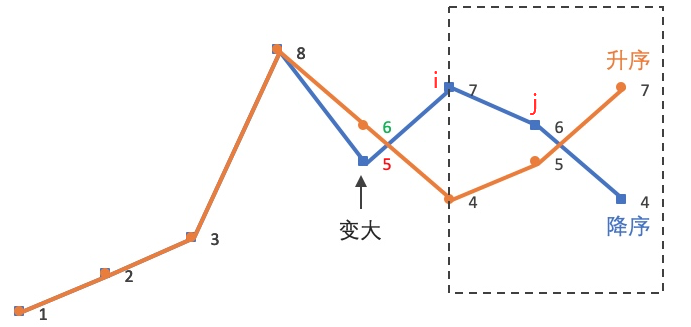
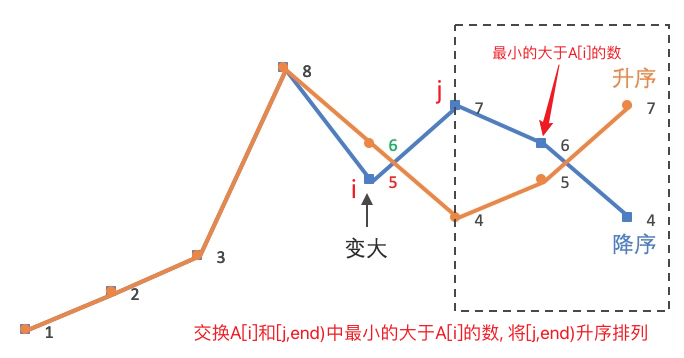
0308

diff --git a/markdown/专题 - 区间.md b/markdown/专题 - 区间.md
@@ -3,7 +3,7 @@
 |[区间合并](/acwing/Section%201/acwing%20-%20%E5%8C%BA%E9%97%B4%E5%90%88%E5%B9%B6.md)|[区间覆盖](/markdown/%E4%B8%93%E9%A2%98%20-%20%E5%8C%BA%E9%97%B4%20-%20%E5%8C%BA%E9%97%B4%E8%A6%86%E7%9B%96.md)|区间交集|[区间选点/不相交选择](/markdown/%E4%B8%93%E9%A2%98%20-%20%E5%8C%BA%E9%97%B4%20-%20%E5%8C%BA%E9%97%B4%E4%B8%8D%E7%9B%B8%E4%BA%A4%E9%80%89%E6%8B%A9.md)|[区间分组](/markdown/%E4%B8%93%E9%A2%98%20-%20%E5%8C%BA%E9%97%B4%20-%20%E5%8C%BA%E9%97%B4%E5%88%86%E7%BB%84.md)| |
 |  :-:  |  :-:  |  :-:  |  :-:  |  :-:  |  :-:  |
 |[56. 合并区间](/markdown/%E4%B8%93%E9%A2%98%20-%20%E5%8C%BA%E9%97%B4.md#lc56-%E5%90%88%E5%B9%B6%E5%8C%BA%E9%97%B4)|[55. 跳跃游戏](/markdown/%E4%B8%93%E9%A2%98%20-%20%E5%8C%BA%E9%97%B4%20-%20%E5%8C%BA%E9%97%B4%E8%A6%86%E7%9B%96.md#lc55-%E8%B7%B3%E8%B7%83%E6%B8%B8%E6%88%8F)|[986. 区间列表的交集](/markdown/%E4%B8%93%E9%A2%98%20-%20%E5%8C%BA%E9%97%B4.md#lc986-%E5%8C%BA%E9%97%B4%E5%88%97%E8%A1%A8%E7%9A%84%E4%BA%A4%E9%9B%86)|[435. 无重叠区间](/markdown/%E4%B8%93%E9%A2%98%20-%20%E5%8C%BA%E9%97%B4%20-%20%E5%8C%BA%E9%97%B4%E4%B8%8D%E7%9B%B8%E4%BA%A4%E9%80%89%E6%8B%A9.md#lc435-%E6%97%A0%E9%87%8D%E5%8F%A0%E5%8C%BA%E9%97%B4)|[AW908. 最大不相交区间数](/acwing/Section%206/2_%E5%8C%BA%E9%97%B4%E5%88%86%E7%BB%84_%E6%9C%80%E5%A4%A7%E4%B8%8D%E7%9B%B8%E4%BA%A4%E5%8C%BA%E9%97%B4%E6%95%B0%E9%87%8F.cpp)|[729. 我的日程安排表](/workspace/729.%E6%88%91%E7%9A%84%E6%97%A5%E7%A8%8B%E5%AE%89%E6%8E%92%E8%A1%A8-i.cpp)|
-|[57. 插入区间](/markdown/%E4%B8%93%E9%A2%98%20-%20%E5%8C%BA%E9%97%B4.md#lc57-%E6%8F%92%E5%85%A5%E5%8C%BA%E9%97%B4)|[45. 跳跃游戏Ⅱ](/markdown/%E4%B8%93%E9%A2%98%20-%20%E5%8C%BA%E9%97%B4%20-%20%E5%8C%BA%E9%97%B4%E8%A6%86%E7%9B%96.md#lc45-%E8%B7%B3%E8%B7%83%E6%B8%B8%E6%88%8F%E2%85%B1)|       |[452. 用最少数量的箭引爆气球](/markdown/%E4%B8%93%E9%A2%98%20-%20%E5%8C%BA%E9%97%B4%20-%20%E5%8C%BA%E9%97%B4%E4%B8%8D%E7%9B%B8%E4%BA%A4%E9%80%89%E6%8B%A9.md#lc452-%E7%94%A8%E6%9C%80%E5%B0%91%E6%95%B0%E9%87%8F%E7%9A%84%E7%AE%AD%E5%BC%95%E7%88%86%E6%B0%94%E7%90%83)|[AW111. 畜栏预定](/acwing/Section%206/2_%E5%8C%BA%E9%97%B4%E5%88%86%E7%BB%84_%E7%95%9C%E6%A0%8F%E9%A2%84%E5%AE%9A.cpp)|
+|[57. 插入区间](/markdown/%E4%B8%93%E9%A2%98%20-%20%E5%8C%BA%E9%97%B4.md#lc57-%E6%8F%92%E5%85%A5%E5%8C%BA%E9%97%B4)|[45. 跳跃游戏II](/markdown/%E4%B8%93%E9%A2%98%20-%20%E5%8C%BA%E9%97%B4%20-%20%E5%8C%BA%E9%97%B4%E8%A6%86%E7%9B%96.md#lc45-%E8%B7%B3%E8%B7%83%E6%B8%B8%E6%88%8F%E2%85%B1)|       |[452. 用最少数量的箭引爆气球](/markdown/%E4%B8%93%E9%A2%98%20-%20%E5%8C%BA%E9%97%B4%20-%20%E5%8C%BA%E9%97%B4%E4%B8%8D%E7%9B%B8%E4%BA%A4%E9%80%89%E6%8B%A9.md#lc452-%E7%94%A8%E6%9C%80%E5%B0%91%E6%95%B0%E9%87%8F%E7%9A%84%E7%AE%AD%E5%BC%95%E7%88%86%E6%B0%94%E7%90%83)|[AW111. 畜栏预定](/acwing/Section%206/2_%E5%8C%BA%E9%97%B4%E5%88%86%E7%BB%84_%E7%95%9C%E6%A0%8F%E9%A2%84%E5%AE%9A.cpp)|
 |       |[763. 划分字母区间](/markdown/%E4%B8%93%E9%A2%98%20-%20%E5%8C%BA%E9%97%B4%20-%20%E5%8C%BA%E9%97%B4%E8%A6%86%E7%9B%96.md#lc763-%E5%88%92%E5%88%86%E5%AD%97%E6%AF%8D%E5%8C%BA%E9%97%B4)|       |         |
 |       |[1024. 视频拼接](/markdown/%E4%B8%93%E9%A2%98%20-%20%E5%8C%BA%E9%97%B4%20-%20%E5%8C%BA%E9%97%B4%E8%A6%86%E7%9B%96.md#lc1024-%E8%A7%86%E9%A2%91%E6%8B%BC%E6%8E%A5)|      |       |
 |       |[1326. 灌溉花园的最少水龙头数目](/markdown/%E4%B8%93%E9%A2%98%20-%20%E5%8C%BA%E9%97%B4%20-%20%E5%8C%BA%E9%97%B4%E8%A6%86%E7%9B%96.md#lc1326-%E7%81%8C%E6%BA%89%E8%8A%B1%E5%9B%AD%E7%9A%84%E6%9C%80%E5%B0%91%E6%B0%B4%E9%BE%99%E5%A4%B4%E6%95%B0%E7%9B%AE)|     |     |
@@ -58,6 +58,7 @@ https://leetcode.cn/problems/insert-interval/
 > 方法二: 先放高的, 直接放在k位置, 如果高度相同先放k小的; 维护一个queue或者vector, 借助`vi.insert(it, val)`方法插入到指定位置后
 > 
 > 等等, 这题怎么是区间呢...
+
 https://leetcode.cn/problems/queue-reconstruction-by-height/
 
 

diff --git a/markdown/专题 - 二分法.md b/markdown/专题 - 二分法.md
@@ -24,9 +24,9 @@
 |  :-:  |  :-:  |  :-:  |
 |[704. 二分查找](/workspace/704.%E4%BA%8C%E5%88%86%E6%9F%A5%E6%89%BE.cpp)|基础实现||
 |[33. 搜索旋转排序数组](/workspace/33.%E6%90%9C%E7%B4%A2%E6%97%8B%E8%BD%AC%E6%8E%92%E5%BA%8F%E6%95%B0%E7%BB%84.cpp)|折叠数组||
-|[81. 搜索旋转排序数组Ⅱ](/workspace/81.%E6%90%9C%E7%B4%A2%E6%97%8B%E8%BD%AC%E6%8E%92%E5%BA%8F%E6%95%B0%E7%BB%84-ii.cpp)|折叠数组|在LC33的基础上进行**去重**|
+|[81. 搜索旋转排序数组II](/workspace/81.%E6%90%9C%E7%B4%A2%E6%97%8B%E8%BD%AC%E6%8E%92%E5%BA%8F%E6%95%B0%E7%BB%84-ii.cpp)|折叠数组|在LC33的基础上进行**去重**|
 |[153. 寻找旋转排序数组中的最小值](/workspace/153.%E5%AF%BB%E6%89%BE%E6%97%8B%E8%BD%AC%E6%8E%92%E5%BA%8F%E6%95%B0%E7%BB%84%E4%B8%AD%E7%9A%84%E6%9C%80%E5%B0%8F%E5%80%BC.cpp)|折叠数组|无重复|
-|[154. 寻找旋转排序数组中的最小值Ⅱ](/workspace/154.%E5%AF%BB%E6%89%BE%E6%97%8B%E8%BD%AC%E6%8E%92%E5%BA%8F%E6%95%B0%E7%BB%84%E4%B8%AD%E7%9A%84%E6%9C%80%E5%B0%8F%E5%80%BC-ii.cpp)|折叠数组|有重复📌|
+|[154. 寻找旋转排序数组中的最小值II](/workspace/154.%E5%AF%BB%E6%89%BE%E6%97%8B%E8%BD%AC%E6%8E%92%E5%BA%8F%E6%95%B0%E7%BB%84%E4%B8%AD%E7%9A%84%E6%9C%80%E5%B0%8F%E5%80%BC-ii.cpp)|折叠数组|有重复📌|
 |[34. 在排序数组中查找元素的第一个和最后一个位置](/workspace/34.%E5%9C%A8%E6%8E%92%E5%BA%8F%E6%95%B0%E7%BB%84%E4%B8%AD%E6%9F%A5%E6%89%BE%E5%85%83%E7%B4%A0%E7%9A%84%E7%AC%AC%E4%B8%80%E4%B8%AA%E5%92%8C%E6%9C%80%E5%90%8E%E4%B8%80%E4%B8%AA%E4%BD%8D%E7%BD%AE.cpp)|第一次/最后一次出现||
 |[436. 寻找右区间](/workspace/436.%E5%AF%BB%E6%89%BE%E5%8F%B3%E5%8C%BA%E9%97%B4.cpp)|第一次出现||
 |[744. 寻找比目标字母更大的最小字母](/workspace/744.%E5%AF%BB%E6%89%BE%E6%AF%94%E7%9B%AE%E6%A0%87%E5%AD%97%E6%AF%8D%E5%A4%A7%E7%9A%84%E6%9C%80%E5%B0%8F%E5%AD%97%E6%AF%8D.cpp)|最后一次出现||
@@ -134,11 +134,11 @@ int lastOccurance(vector<int> nums, int target, int left, int right){
 > 
 > [LC33. 搜索旋转排序](/workspace/33.%E6%90%9C%E7%B4%A2%E6%97%8B%E8%BD%AC%E6%8E%92%E5%BA%8F%E6%95%B0%E7%BB%84.cpp)
 >
-> [LC81. 搜索旋转排序Ⅱ](/workspace/81.%E6%90%9C%E7%B4%A2%E6%97%8B%E8%BD%AC%E6%8E%92%E5%BA%8F%E6%95%B0%E7%BB%84-ii.cpp) : 在LC33的基础上去重, 而不是改变边界
+> [LC81. 搜索旋转排序II](/workspace/81.%E6%90%9C%E7%B4%A2%E6%97%8B%E8%BD%AC%E6%8E%92%E5%BA%8F%E6%95%B0%E7%BB%84-ii.cpp) : 在LC33的基础上去重, 而不是改变边界
 >
 > [LC153. 寻找旋转排序数组中的最小值](/workspace/153.%E5%AF%BB%E6%89%BE%E6%97%8B%E8%BD%AC%E6%8E%92%E5%BA%8F%E6%95%B0%E7%BB%84%E4%B8%AD%E7%9A%84%E6%9C%80%E5%B0%8F%E5%80%BC.cpp): 不需要去重, 要注意`nums[mid] <= nums[right]`时min有两种情况, 有可能当前的mid就是最小值位置, 如果不是才能往左收缩
 > 
-> [LC154. 寻找旋转排序数组中的最小值Ⅱ](/workspace/154.%E5%AF%BB%E6%89%BE%E6%97%8B%E8%BD%AC%E6%8E%92%E5%BA%8F%E6%95%B0%E7%BB%84%E4%B8%AD%E7%9A%84%E6%9C%80%E5%B0%8F%E5%80%BC-ii.cpp): 对于`nums[mid]==nums[right]`的情况, 为了不单独区分`[2,2,1,2]`与`[1,2,2,2]`两种case, 收缩右边界即可, 因为mid已经保留了right的值
+> [LC154. 寻找旋转排序数组中的最小值II](/workspace/154.%E5%AF%BB%E6%89%BE%E6%97%8B%E8%BD%AC%E6%8E%92%E5%BA%8F%E6%95%B0%E7%BB%84%E4%B8%AD%E7%9A%84%E6%9C%80%E5%B0%8F%E5%80%BC-ii.cpp): 对于`nums[mid]==nums[right]`的情况, 为了不单独区分`[2,2,1,2]`与`[1,2,2,2]`两种case, 收缩右边界即可, 因为mid已经保留了right的值
 
 ```CPP
 // 在LC33基础上去重

diff --git a/record/2022/2022-05.md b/record/2022/2022-05.md
@@ -8,7 +8,7 @@
 |KEYWORD|`inorder`<br>`归并`|`string`|`string` `sort`|`math`|`滑动窗口`|`queue`|`BFS`|
 |TOPIC  |[📌442. 数组中重复的元素🧡](/markdown/LC422.%20%E6%95%B0%E7%BB%84%E4%B8%AD%E9%87%8D%E5%A4%8D%E7%9A%84%E6%95%B0%E6%8D%AE.md)|[📌942. 增减字符串匹配💚](/markdown/LC942.%20%E5%A2%9E%E5%87%8F%E5%AD%97%E7%AC%A6%E4%B8%B2%E5%8C%B9%E9%85%8D.md)|   |[449. 序列化和反序列化二叉搜索树🧡](/workspace/449.%E5%BA%8F%E5%88%97%E5%8C%96%E5%92%8C%E5%8F%8D%E5%BA%8F%E5%88%97%E5%8C%96%E4%BA%8C%E5%8F%89%E6%90%9C%E7%B4%A2%E6%A0%91.cpp)|[~~LC944. 删列造序💚~~](/workspace/944.%E5%88%A0%E5%88%97%E9%80%A0%E5%BA%8F.cpp)|[01.05. 一次编辑🧡](/markdown/01.05.%20%E4%B8%80%E6%AC%A1%E7%BC%96%E8%BE%91.md)||
 |KEYWORD|`原地交换`<br>`原地hash`|`贪心`|   |`BST`|`matrix`|`双指针` `dp`||
-|TOPIC  |[812. 最大三角形面积💚](/markdown/LC812.%20%E6%9C%80%E5%A4%A7%E4%B8%89%E8%A7%92%E5%BD%A2%E9%9D%A2%E7%A7%AF.md)|[04.06. 后继者🧡](/markdown/04.06.%20%E5%90%8E%E7%BB%A7%E8%80%85.md)|[953. 验证外星语词典💚](/workspace/953.%E9%AA%8C%E8%AF%81%E5%A4%96%E6%98%9F%E8%AF%AD%E8%AF%8D%E5%85%B8.cpp)|[📌668. 乘法表中第k小的数💔](/markdown/LC668.%20%E4%B9%98%E6%B3%95%E8%A1%A8%E4%B8%AD%E7%AC%ACK%E5%B0%8F%E7%9A%84%E6%95%B0.md)|[📌462. 最少移动次数使数组元素相等Ⅱ🧡](https://leetcode.cn/problems/minimum-moves-to-equal-array-elements-ii/solution/by-fuxuemingzhu-13z3/)|[📌436. 寻找右区间🧡](https://leetcode.cn/problems/find-right-interval/solution/xun-zhao-you-qu-jian-by-leetcode-solutio-w2ic/)|[961. 在长度 2N 的数组中找出重复 N 次的元素💚](https://leetcode.cn/problems/n-repeated-element-in-size-2n-array/)|
+|TOPIC  |[812. 最大三角形面积💚](/markdown/LC812.%20%E6%9C%80%E5%A4%A7%E4%B8%89%E8%A7%92%E5%BD%A2%E9%9D%A2%E7%A7%AF.md)|[04.06. 后继者🧡](/markdown/04.06.%20%E5%90%8E%E7%BB%A7%E8%80%85.md)|[953. 验证外星语词典💚](/workspace/953.%E9%AA%8C%E8%AF%81%E5%A4%96%E6%98%9F%E8%AF%AD%E8%AF%8D%E5%85%B8.cpp)|[📌668. 乘法表中第k小的数💔](/markdown/LC668.%20%E4%B9%98%E6%B3%95%E8%A1%A8%E4%B8%AD%E7%AC%ACK%E5%B0%8F%E7%9A%84%E6%95%B0.md)|[📌462. 最少移动次数使数组元素相等II🧡](https://leetcode.cn/problems/minimum-moves-to-equal-array-elements-ii/solution/by-fuxuemingzhu-13z3/)|[📌436. 寻找右区间🧡](https://leetcode.cn/problems/find-right-interval/solution/xun-zhao-you-qu-jian-by-leetcode-solutio-w2ic/)|[961. 在长度 2N 的数组中找出重复 N 次的元素💚](https://leetcode.cn/problems/n-repeated-element-in-size-2n-array/)|
 |KEYWORD|`math`|`BST`|`map` `cmp`|`二分`|`math`|`interval` `二分`|`map` `math`|
 
 > ⭐ start index   

diff --git a/markdown/专题 - 全排列.md b/markdown/专题 - 全排列.md
@@ -8,33 +8,40 @@
 > ![LC31](/appendix/LC31.png)
 
 ```CPP
-void nextPermutation(vector<int>& nums) {
-    if(nums.size()<=1)
-        return ;
-    // 从后向前找到第一个"小值"
-    int i = nums.size()-2;
-    for(i=nums.size()-2; i>=0; i--){
-        if(nums[i] < nums[i+1])
+void nextPermutation(vector<int>& A) {
+    int n = A.size();
+    // 从后向前找到第一个递增相邻元素{A[i], A[j]} => A[i]为"小值"
+    int j = n-1;
+    for(j = n-1; j>=1; j--){
+        if(A[j-1] < A[j])
             break;
     }
-    // 从后向前找到 nums[i] 后面用于交换的 nums[j], nums[j]是后面最小的大于nums[i]的值
-    if(i >= 0){
-        int j = nums.size()-1;
-        while(j>=0 && nums[i]>=nums[j]){
-            j--;
-        }
-        swap(nums[i], nums[j]); // nums[i]换成后面最小的更大值
+    // [3,2,1]的nextPermutation是[1,2,3]
+    if(j==0){
+        sort(A.begin(), A.end());
+        return ;
     }
-    // i 位置是最新被改变的值(变大为nums[j]), 将 i 位置后面按递增排序即可
-    vector<int>::iterator it = nums.begin();
-    for(int m=0;m<=i;m++)
+    // 找到[j,end)区间内从右到左第一个大于A[i]的数A[k] => A[k]为"大值"
+    int i = j-1;
+    int k = n-1;
+    for(k=n-1; k>=j; k--){
+        if(A[k] > A[i])
+            break;
+    }
+    // ”大值“和”小值“交换
+    swap(A[i], A[k]);
+    // 从j往后的元素升序排列
+    for(int x=0; x<j; x++)
         it++;
-    sort(it,nums.end());
+    cout<<*it<<endl;
+    sort(it, A.end());
 }
 ```
+https://leetcode.cn/problems/next-permutation/
 
+<br/>
 
-##### [LC556. 下一个更大元素Ⅲ](/workspace/556.%E4%B8%8B%E4%B8%80%E4%B8%AA%E6%9B%B4%E5%A4%A7%E5%85%83%E7%B4%A0-iii.cpp)
+##### [LC556. 下一个更大元素III](/workspace/556.%E4%B8%8B%E4%B8%80%E4%B8%AA%E6%9B%B4%E5%A4%A7%E5%85%83%E7%B4%A0-iii.cpp)
 
 > 在[LC31. 下一个排列](/workspace/31.%E4%B8%8B%E4%B8%80%E4%B8%AA%E6%8E%92%E5%88%97.cpp)的基础上进行`int->string->vector<int>`, 并且进行`INT_MAX`的范围检查
 
@@ -55,13 +62,16 @@ int nextGreaterElement(int n) {
     return (ans>INT_MAX) ? -1 : ans;
 }
 ```
+https://leetcode.cn/problems/next-greater-element-iii/
 
+<br/>
 
 ##### [LC46. 全排列](/workspace/46.%E5%85%A8%E6%8E%92%E5%88%97.cpp)
 
 > 回溯法, 别写一堆`next_permutation`...
 
+<br/>
 
-##### [LC47. 全排列Ⅱ](/workspace/47.%E5%85%A8%E6%8E%92%E5%88%97-ii.cpp)
+##### [LC47. 全排列II](/workspace/47.%E5%85%A8%E6%8E%92%E5%88%97-ii.cpp)
 
 > 在[LC46. 全排列](/workspace/46.%E5%85%A8%E6%8E%92%E5%88%97.cpp)的基础上(同一层)去重

diff --git a/markdown/专题 - 回溯法.md b/markdown/专题 - 回溯法.md
@@ -122,7 +122,7 @@ for(int i=cur; i<candidates.size(); i++){
 > 无重复元素, 不用考虑去重
 
 ###### [LC90. 子集II](/workspace/90.%E5%AD%90%E9%9B%86-ii.cpp)
-> 有重复元素, 要考虑「同一层」去重, 与[LC40. 组合问题Ⅱ](/workspace/40.%E7%BB%84%E5%90%88%E6%80%BB%E5%92%8C-ii.cpp)相同的去重方式, 排序后相同元素则不在同一层建立节点
+> 有重复元素, 要考虑「同一层」去重, 与[LC40. 组合问题II](/workspace/40.%E7%BB%84%E5%90%88%E6%80%BB%E5%92%8C-ii.cpp)相同的去重方式, 排序后相同元素则不在同一层建立节点
 >
 > ![LC90](https://img-blog.csdnimg.cn/20201124195411977.png)
 >
@@ -144,7 +144,7 @@ for(int i=startIndex; i<nums.size(); i++){
 > 
 > 首先确定还是在同一层去重, 比如`[1,1,7]`, 不影响path(纵向)上的两个 1 的重复使用
 > 
-> 同一层去重上, 因为不是排序数组, 比如`[4,1,4,5,6]`这种情况, `1`不起实质作用, 但两个`4`不再是相邻的了, 因此与[LC40. 组合总和Ⅱ](/workspace/40.%E7%BB%84%E5%90%88%E6%80%BB%E5%92%8C-ii.cpp)和[LC90. 子集Ⅱ](/workspace/90.%E5%AD%90%E9%9B%86-ii.cpp)的去重方式不同
+> 同一层去重上, 因为不是排序数组, 比如`[4,1,4,5,6]`这种情况, `1`不起实质作用, 但两个`4`不再是相邻的了, 因此与[LC40. 组合总和II](/workspace/40.%E7%BB%84%E5%90%88%E6%80%BB%E5%92%8C-ii.cpp)和[LC90. 子集II](/workspace/90.%E5%AD%90%E9%9B%86-ii.cpp)的去重方式不同
 > 
 > 而是通过`set`对同一层去重
 
@@ -227,7 +227,7 @@ int numTilePossibilities(string tiles) {
 
 ##### 6. 路径总和
 
-###### [LC113. 路径总和Ⅱ](/workspace/113.%E8%B7%AF%E5%BE%84%E6%80%BB%E5%92%8C-ii.cpp)
+###### [LC113. 路径总和II](/workspace/113.%E8%B7%AF%E5%BE%84%E6%80%BB%E5%92%8C-ii.cpp)
 
 ###### [LC112. 路径总和](/workspace/112.%E8%B7%AF%E5%BE%84%E6%80%BB%E5%92%8C.cpp)
 > 这个问题已经建立在一棵存在的二叉树上, 不需要再考虑建树的问题, 所以也可以看成一个树的DFS问题

diff --git a/markdown/专题 - 区间 - 区间覆盖.md b/markdown/专题 - 区间 - 区间覆盖.md
@@ -36,7 +36,7 @@ bool canJump(vector<int>& nums) {
 https://leetcode.cn/problems/jump-game/
 
 
-##### [LC45. 跳跃游戏Ⅱ](/workspace/45.%E8%B7%B3%E8%B7%83%E6%B8%B8%E6%88%8F-ii.cpp): 最小步数
+##### [LC45. 跳跃游戏II](/workspace/45.%E8%B7%B3%E8%B7%83%E6%B8%B8%E6%88%8F-ii.cpp): 最小步数
 
 > 不只是要求检查可达性, 还要求最小步数, 所以只有到`i==cover`时才更新区间内的最大cover, 计跳跃一步
 
@@ -94,7 +94,7 @@ https://leetcode.cn/problems/partition-labels/
 
 ##### [LC1024. 视频拼接](/workspace/1024.%E8%A7%86%E9%A2%91%E6%8B%BC%E6%8E%A5.cpp)
 
-> 和[LC45. 跳跃游戏Ⅱ](https://github.com/MyLeetCodeRecord/cpp-leetcode/blob/master/markdown/%E4%B8%93%E9%A2%98%20-%20%E5%8C%BA%E9%97%B4%20-%20%E5%8C%BA%E9%97%B4%E8%A6%86%E7%9B%96.md#lc45-%E8%B7%B3%E8%B7%83%E6%B8%B8%E6%88%8F%E2%85%B1)类似, 但是这里不是下标, 而是额外的时间, 做起来好麻烦...
+> 和[LC45. 跳跃游戏II](https://github.com/MyLeetCodeRecord/cpp-leetcode/blob/master/markdown/%E4%B8%93%E9%A2%98%20-%20%E5%8C%BA%E9%97%B4%20-%20%E5%8C%BA%E9%97%B4%E8%A6%86%E7%9B%96.md#lc45-%E8%B7%B3%E8%B7%83%E6%B8%B8%E6%88%8F%E2%85%B1)类似, 但是这里不是下标, 而是额外的时间, 做起来好麻烦...
 
 ```CPP
 bool static cmp(vector<int> &l, vector<int> &r){

diff --git a/markdown/专题 - DP - 路径问题.md b/markdown/专题 - DP - 路径问题.md
@@ -17,7 +17,7 @@
 > 如果不选择错位, 初始化`row 0`和`col 0`, 然后进行状态转移
 
 
-##### [LC63. 不同路径Ⅱ](/workspace/63.%E4%B8%8D%E5%90%8C%E8%B7%AF%E5%BE%84-ii.cpp)
+##### [LC63. 不同路径II](/workspace/63.%E4%B8%8D%E5%90%8C%E8%B7%AF%E5%BE%84-ii.cpp)
 > 题目描述: https://leetcode.cn/problems/unique-paths-ii
 > 
 > 注意对第0行和第0列的初始化, 可能无法通过
@@ -66,7 +66,7 @@
 > ```
 
 
-##### [1289. 下降路径最小和Ⅱ](/workspace/1289.%E4%B8%8B%E9%99%8D%E8%B7%AF%E5%BE%84%E6%9C%80%E5%B0%8F%E5%92%8C-ii.cpp)
+##### [1289. 下降路径最小和II](/workspace/1289.%E4%B8%8B%E9%99%8D%E8%B7%AF%E5%BE%84%E6%9C%80%E5%B0%8F%E5%92%8C-ii.cpp)
 > 题目描述: https://leetcode.cn/problems/minimum-falling-path-sum-ii/
 > 
 > ➡[直接DP]((/workspace/1289.%E4%B8%8B%E9%99%8D%E8%B7%AF%E5%BE%84%E6%9C%80%E5%B0%8F%E5%92%8C-ii.cpp))

diff --git a/markdown/专题 - 背包 - 完全背包.md b/markdown/专题 - 背包 - 完全背包.md
@@ -33,7 +33,7 @@ int complete_bag() {
 
 [LC322. 零钱兑换](/workspace/322.%E9%9B%B6%E9%92%B1%E5%85%91%E6%8D%A2.cpp)
 
-[LC518. 零钱兑换Ⅱ](/workspace/518.%E9%9B%B6%E9%92%B1%E5%85%91%E6%8D%A2-ii.cpp)
+[LC518. 零钱兑换II](/workspace/518.%E9%9B%B6%E9%92%B1%E5%85%91%E6%8D%A2-ii.cpp)
 
 [LC279. 完全平方数](/workspace/279.%E5%AE%8C%E5%85%A8%E5%B9%B3%E6%96%B9%E6%95%B0.cpp) => 零钱面额是`1, 4, 9, ···`
 
@@ -42,7 +42,7 @@ int complete_bag() {
 ##### 求组合数
 > 求组合数就是外层for循环遍历物品, 内层for遍历背包容量
 
-[LC518. 零钱兑换Ⅱ](/workspace/518.%E9%9B%B6%E9%92%B1%E5%85%91%E6%8D%A2-ii.cpp)
+[LC518. 零钱兑换II](/workspace/518.%E9%9B%B6%E9%92%B1%E5%85%91%E6%8D%A2-ii.cpp)
 
 
 

diff --git a/markdown/专题 - DP - 股票问题.md b/markdown/专题 - DP - 股票问题.md
@@ -7,7 +7,7 @@
 > 用一个`int变量`或者`dp[i]数组`记录第i天(包括第i天本身)的最低价值, 作为买入时间, 尝试用`price[i]-dp[i]`更新ans
 
 
-##### [LC122. 买卖股票的最佳时机Ⅱ](/workspace/122.%E4%B9%B0%E5%8D%96%E8%82%A1%E7%A5%A8%E7%9A%84%E6%9C%80%E4%BD%B3%E6%97%B6%E6%9C%BA-ii.cpp)
+##### [LC122. 买卖股票的最佳时机II](/workspace/122.%E4%B9%B0%E5%8D%96%E8%82%A1%E7%A5%A8%E7%9A%84%E6%9C%80%E4%BD%B3%E6%97%B6%E6%9C%BA-ii.cpp)
 
 > [题目](https://leetcode.cn/problems/best-time-to-buy-and-sell-stock-ii): 同一时间最多持有一只股票, 可以不重叠地重复购买
 > 

diff --git a/record/2022/July-Weekly-1.md b/record/2022/July-Weekly-1.md
@@ -27,7 +27,7 @@ string decodeMessage(string key, string message) {
 
 > [题目](https://leetcode.cn/problems/spiral-matrix-iv/) - `matrix`
 > 
-> 与[LC54. 螺旋矩阵](https://leetcode.cn/problems/spiral-matrix/)和[LC59. 螺旋矩阵Ⅱ](https://leetcode.cn/problems/spiral-matrix-ii)是同一道题, 熟能生巧...
+> 与[LC54. 螺旋矩阵](https://leetcode.cn/problems/spiral-matrix/)和[LC59. 螺旋矩阵II](https://leetcode.cn/problems/spiral-matrix-ii)是同一道题, 熟能生巧...
 >
 > 本题要对链表长度不足的情况提前终止
 

diff --git a/markdown/专题 - Trie.md b/markdown/专题 - Trie.md
@@ -4,7 +4,7 @@
 
 ###### [LC211. 添加与搜索单词](/markdown/LC211.%20%E6%B7%BB%E5%8A%A0%E4%B8%8E%E6%90%9C%E7%B4%A2%E5%8D%95%E8%AF%8D.md)
 
-###### [LC212. 单词搜索Ⅱ](/markdown/LC212.%20%E5%8D%95%E8%AF%8D%E6%90%9C%E7%B4%A2%E2%85%A1.md)
+###### [LC212. 单词搜索II](/markdown/LC212.%20%E5%8D%95%E8%AF%8D%E6%90%9C%E7%B4%A2%E2%85%A1.md)
 
 ###### [LC720. 词典中最长的单词](/markdown/LC720.%20%E8%AF%8D%E5%85%B8%E9%87%8C%E6%9C%80%E9%95%BF%E7%9A%84%E5%8D%95%E8%AF%8D.md)
 

diff --git a/剑指offer/118. 多余的边.md b/剑指offer/118. 多余的边.md
@@ -5,7 +5,7 @@
 > `inSame()`可以直接集成在`union()`中, 加一个`bool`返回值即可
 
 
-> [LC685. 冗余连接Ⅱ](/workspace/685.%E5%86%97%E4%BD%99%E8%BF%9E%E6%8E%A5-ii.cpp)是这道题的有向图版本
+> [LC685. 冗余连接II](/workspace/685.%E5%86%97%E4%BD%99%E8%BF%9E%E6%8E%A5-ii.cpp)是这道题的有向图版本
 >
 > 先检查`indegree=2`的点, 必然有一条边是答案; 如果没有`indegree=2`的点, 说明存在本题中的环路
 
